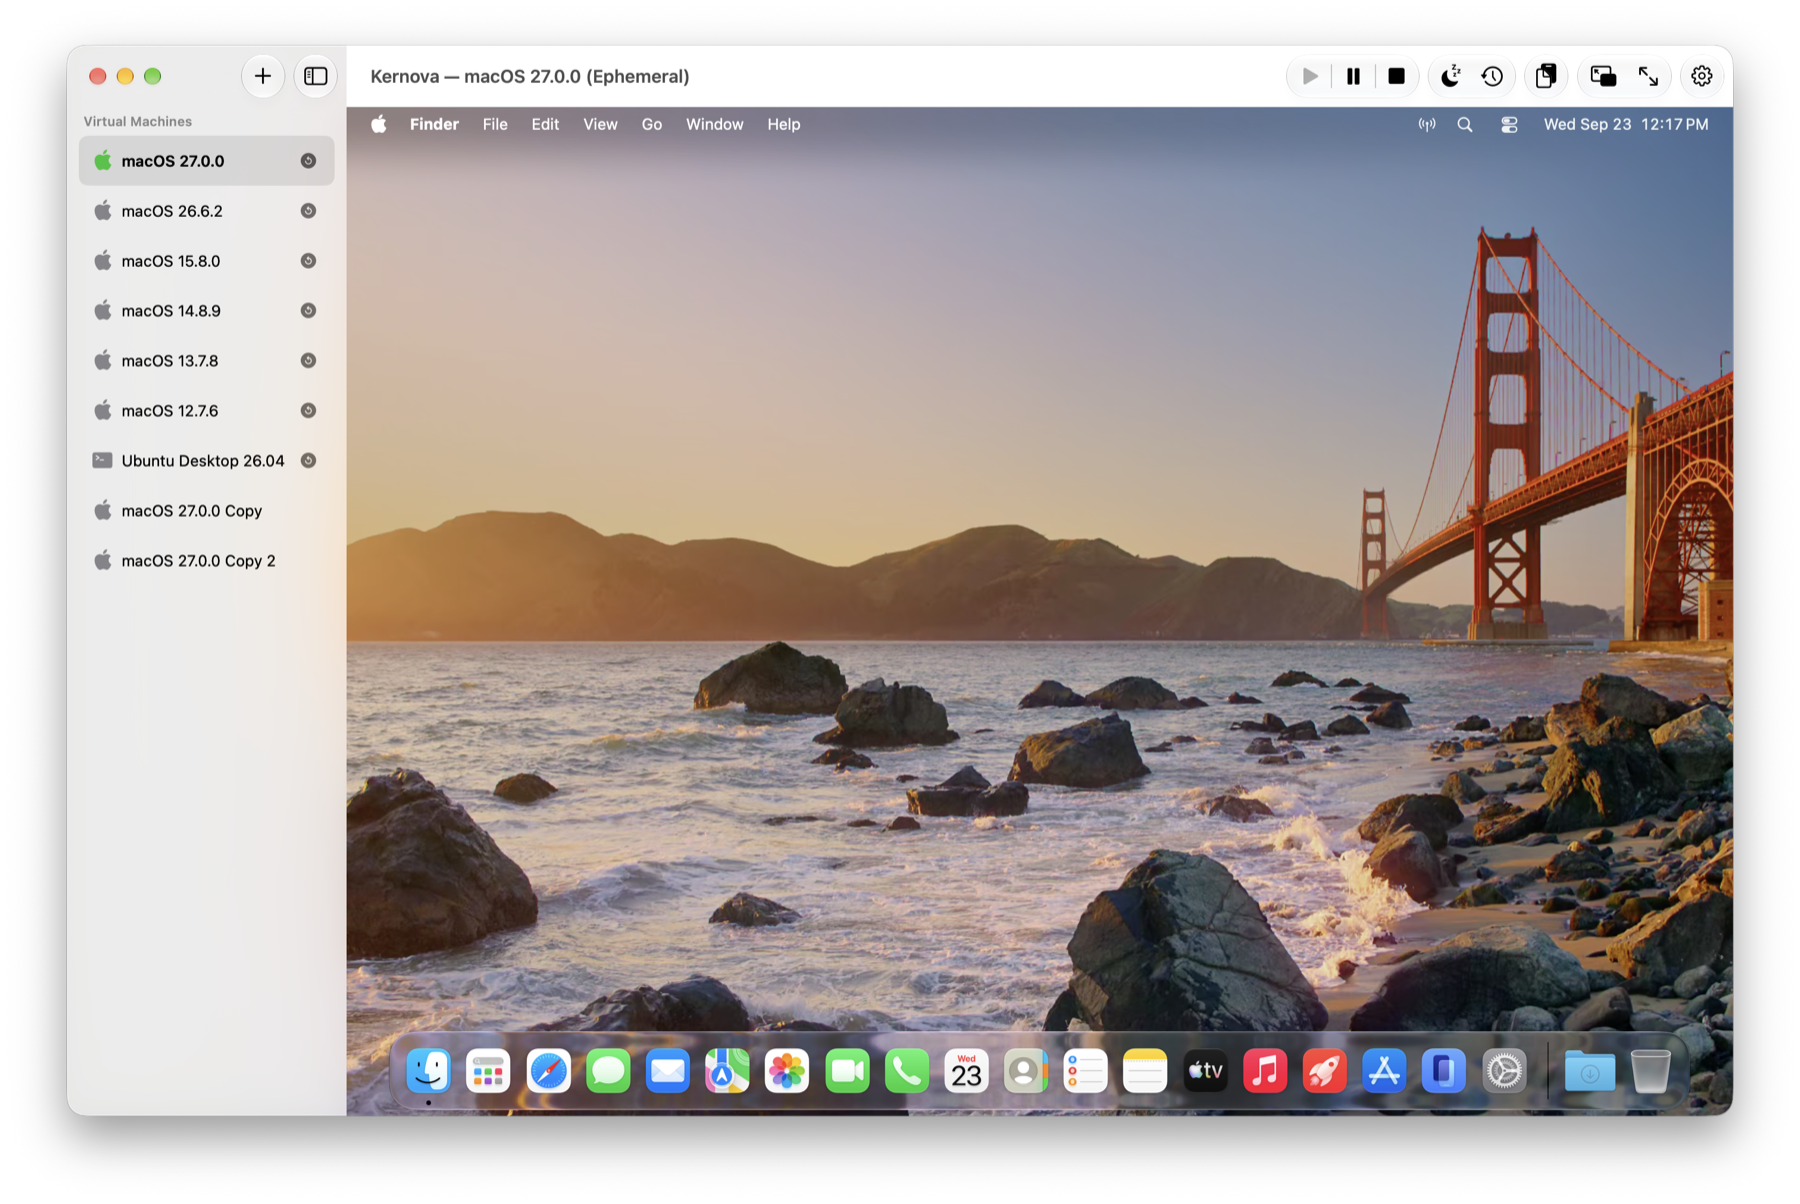
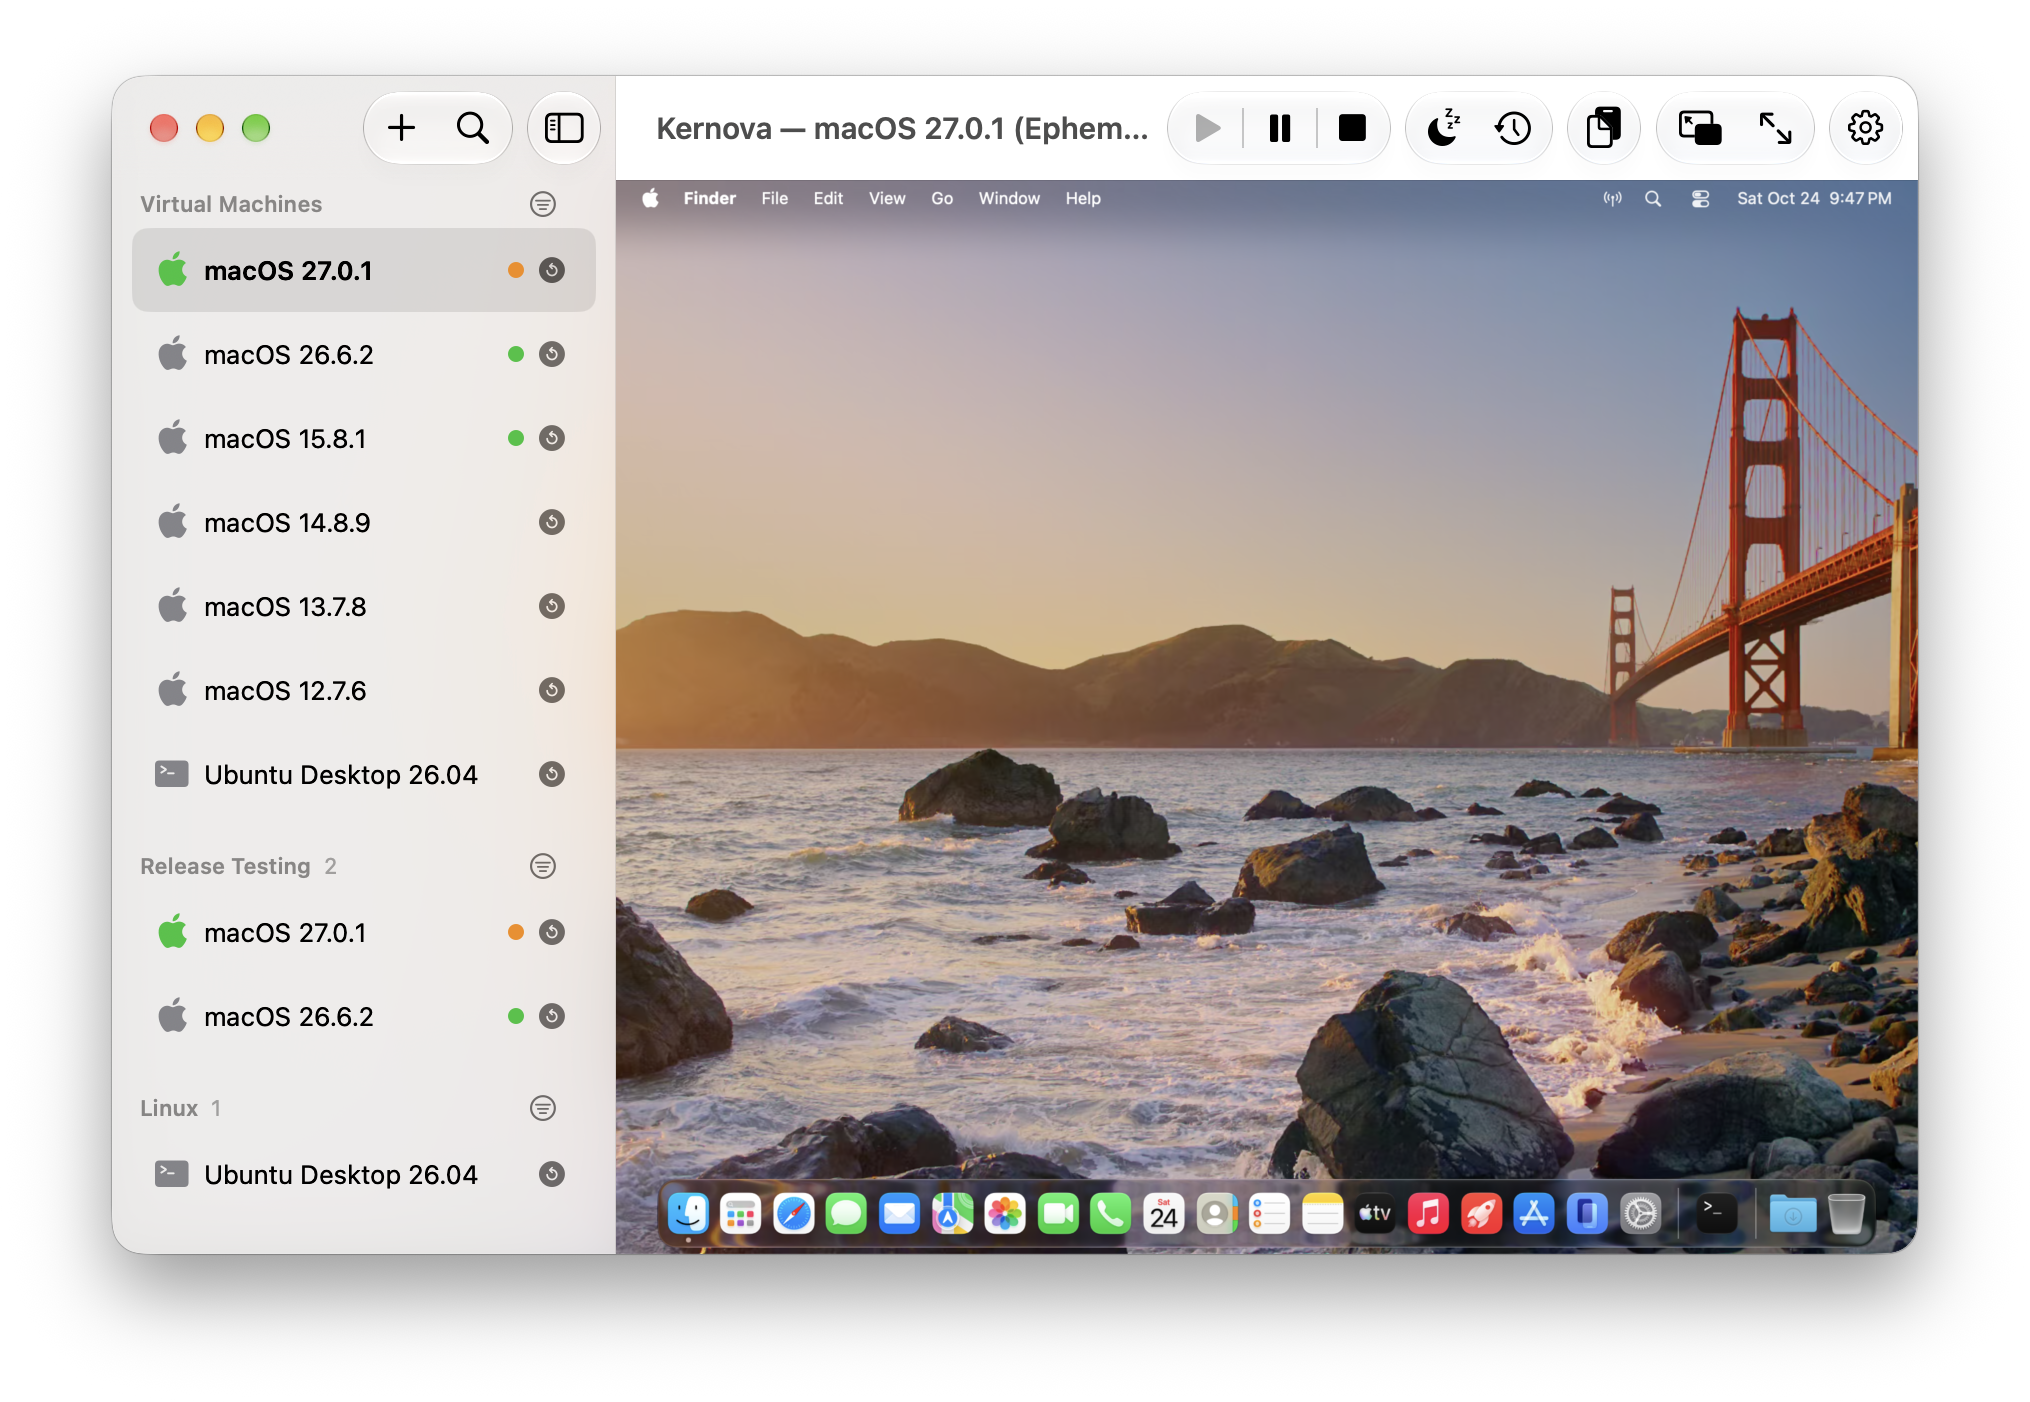
docs: Retake the README screenshots and add the Network settings pair
Every pair shows the current UI in light and dark: the sidebar with
tags, a folder and a smart group; the details-pane overview; the
clipboard window as an editable buffer; the creation wizard's Account
and Review steps. A new pair shows a VM's Network settings with the
Mode menu grouped by mode, Isolated and named networks included.

diff --git a/README.md b/README.md
@@ -15,7 +15,7 @@ Kernova is a native Mac app for fast, disposable macOS and Linux VMs — no thir
 <p align="center">
   <picture>
     <source media="(prefers-color-scheme: dark)" srcset="docs/images/hero-dark.png">
-    <img src="docs/images/hero-light.png" alt="Kernova main window: a sidebar of VMs with a running macOS 27 guest's desktop in the detail pane" width="900">
+    <img src="docs/images/hero-light.png" alt="Kernova main window: a sidebar of VMs with color tags, a folder, and a smart group, beside a running macOS 27 guest's desktop in the detail pane" width="900">
   </picture>
 </p>
 
@@ -99,6 +99,13 @@ Kernova is a native Mac app for fast, disposable macOS and Linux VMs — no thir
   </picture>
 </p>
 
+<p align="center">
+  <picture>
+    <source media="(prefers-color-scheme: dark)" srcset="docs/images/network-dark.png">
+    <img src="docs/images/network-light.png" alt="A VM's Network settings with the Mode menu open: NAT and Host Only each list their Common network, an Isolated network, and named networks; Bridged lists Automatic and each interface" width="680">
+  </picture>
+</p>
+
 ### Guest integration
 
 | | |
@@ -111,7 +118,7 @@ Kernova is a native Mac app for fast, disposable macOS and Linux VMs — no thir
 <p align="center">
   <picture>
     <source media="(prefers-color-scheme: dark)" srcset="docs/images/clipboard-dark.png">
-    <img src="docs/images/clipboard-light.png" alt="The clipboard window for a running macOS guest, showing rich text with an embedded photo and caption, with Automatic passthrough on" width="720">
+    <img src="docs/images/clipboard-light.png" alt="The clipboard window for a running macOS guest, holding rich text with an embedded photo and caption, with Paste from Mac, Copy to Mac, and Automatic passthrough off" width="720">
   </picture>
 </p>
 
